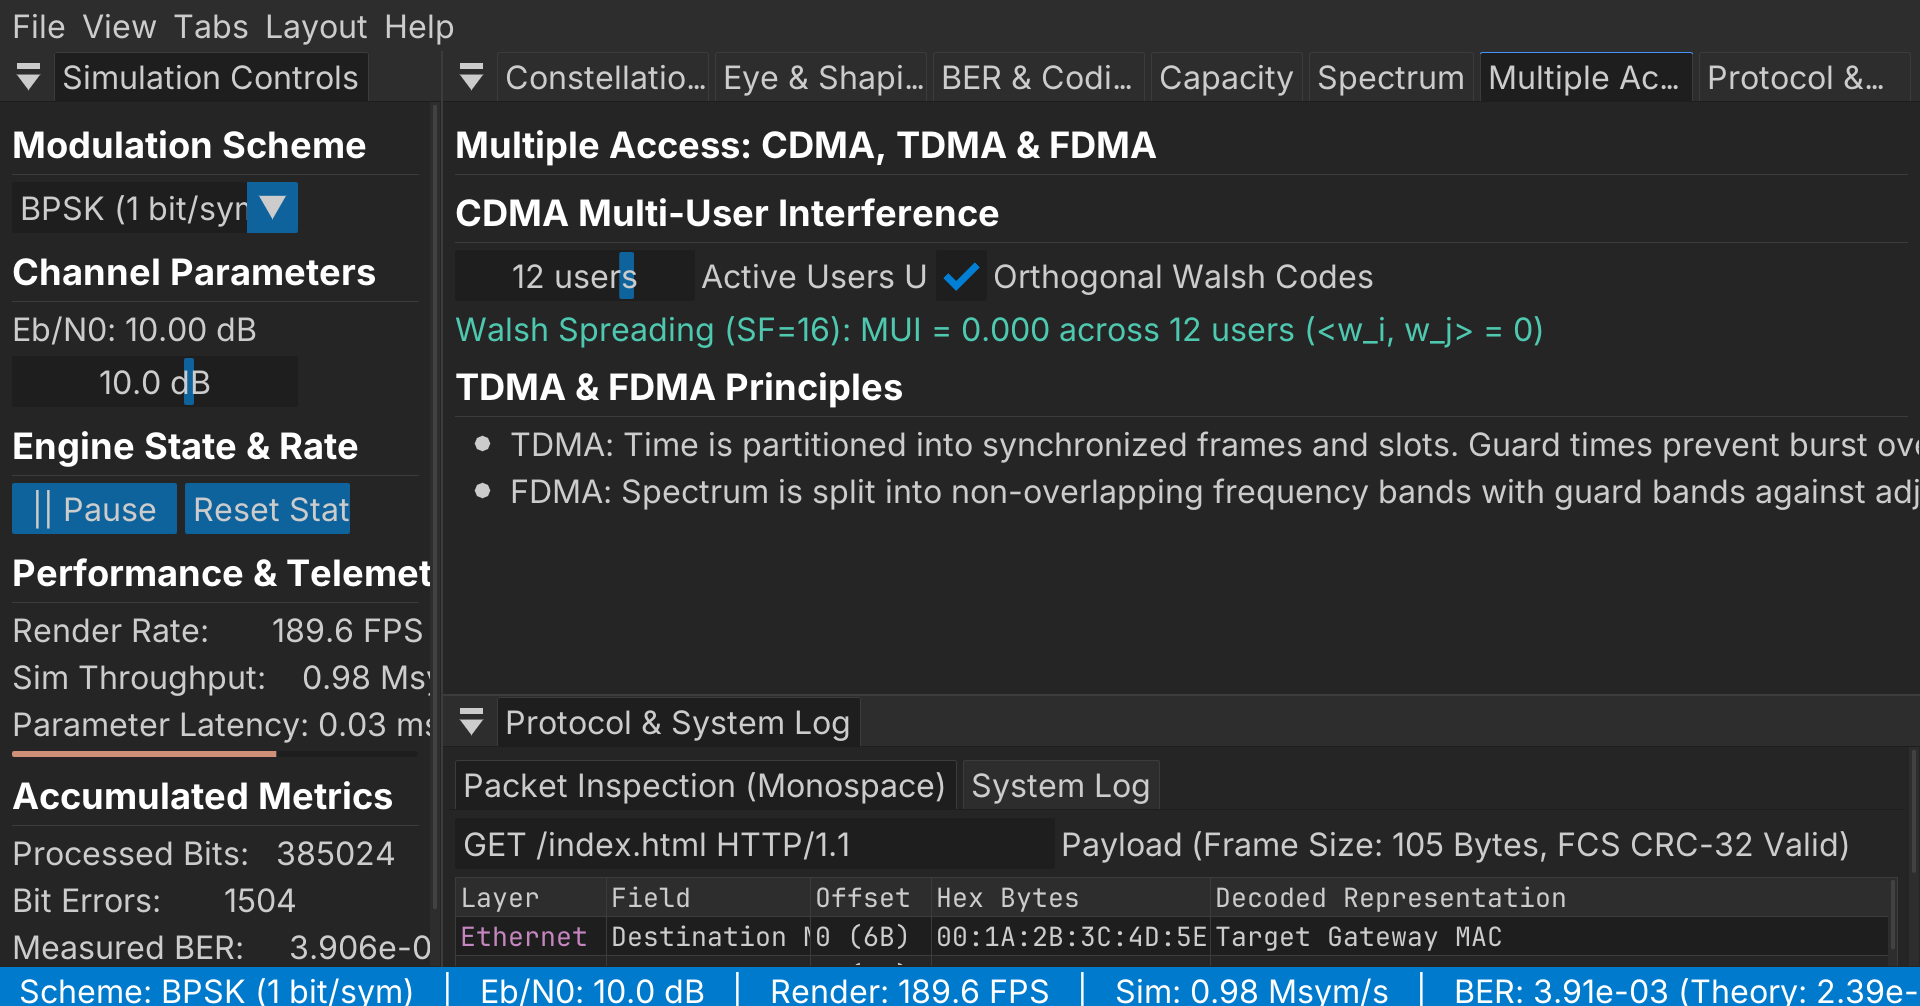
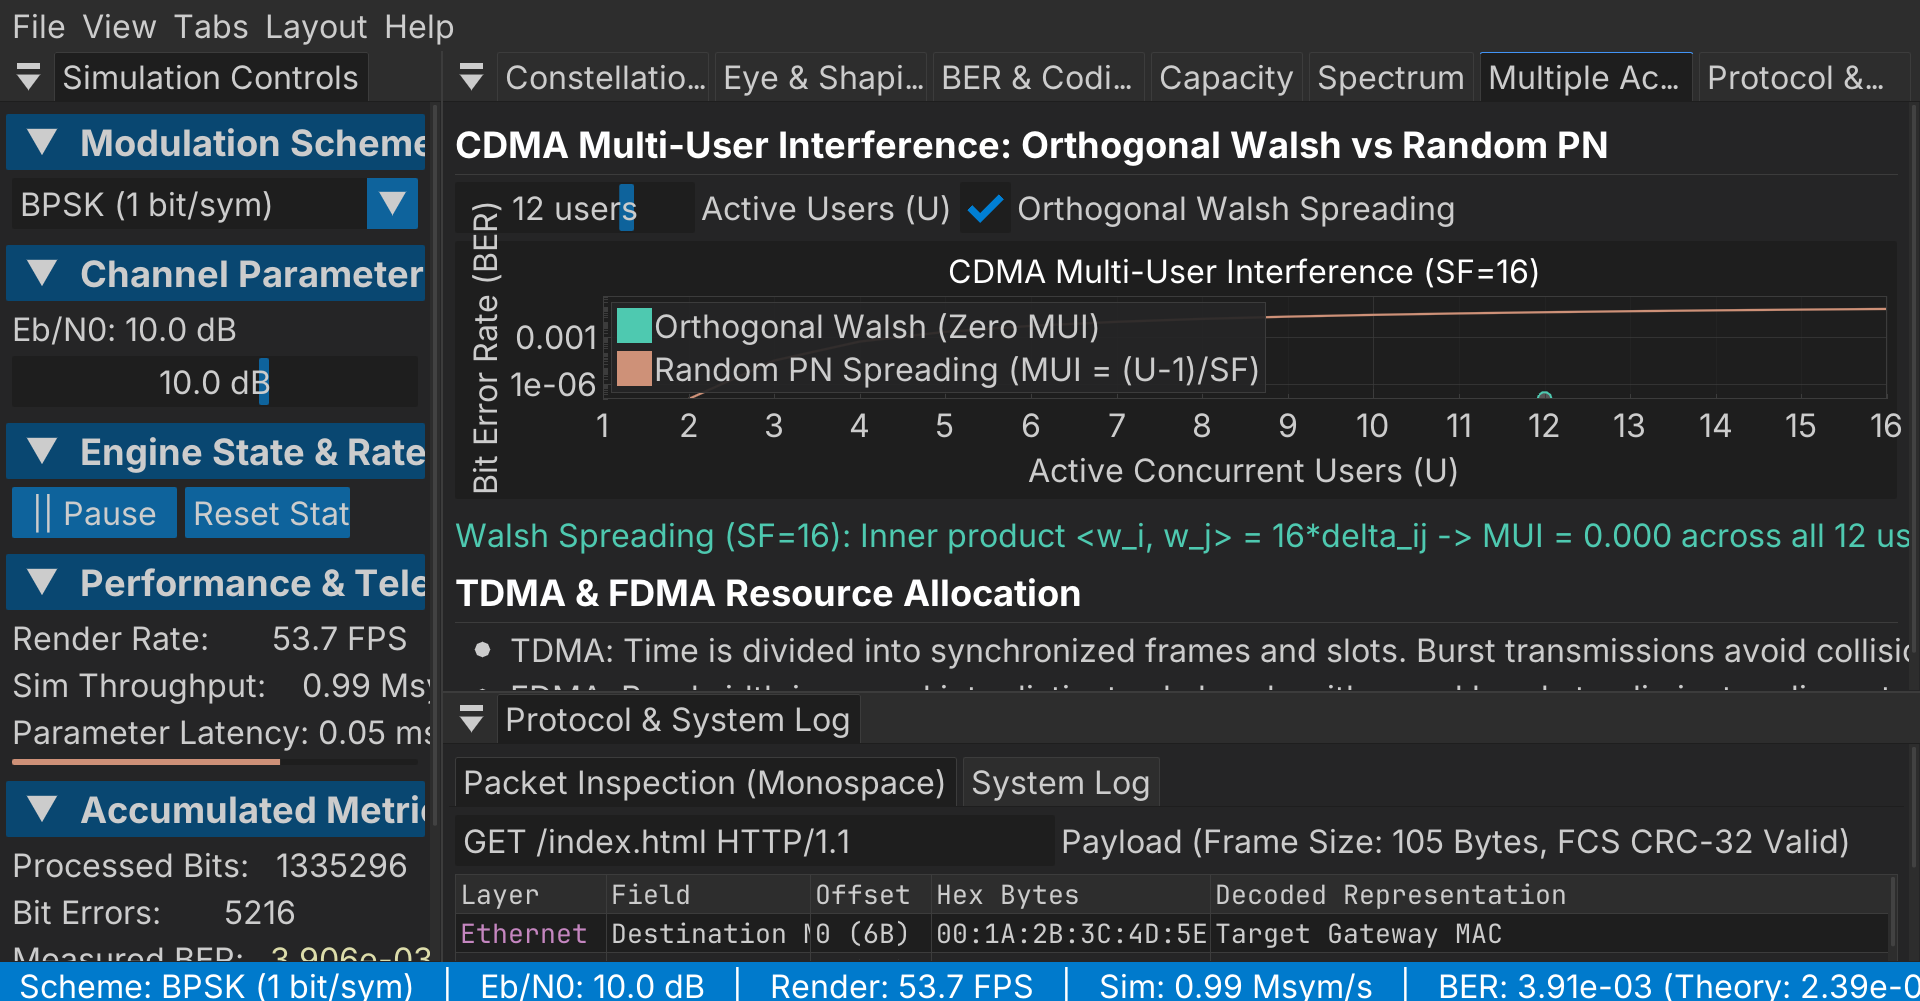
feat(ui): enlarge spectrum plot, add live CDMA multi-user BER plot and ARQ efficiency vs delay plot

diff --git a/app/main.cpp b/app/main.cpp
@@ -994,18 +994,19 @@ int main(int argc, char** argv)
         sectionHeader("Power Spectral Density & Modulation Analysis", font_set.header);
 
         const auto spec_snap = sim.getSpectrumSnapshot();
+        const float spec_plot_h = std::max(240.0f, ImGui::GetContentRegionAvail().y - 190.0f);
         if (!spec_snap.freqs.empty() && !spec_snap.psd_db.empty()) {
-            if (ImPlot::BeginPlot("Power Spectral Density", ImVec2(-1, 180 * app_settings.ui_scale))) {
+            if (ImPlot::BeginPlot("Power Spectral Density (PSD)", ImVec2(-1, spec_plot_h))) {
                 ImPlot::SetupAxes("Frequency (kHz)", "PSD (dB/Hz)");
-                ImPlot::SetupAxisLimits(ImAxis_Y1, -90.0, 10.0, ImPlotCond_Always);
+                ImPlot::SetupAxisLimits(ImAxis_Y1, -70.0, 5.0, ImPlotCond_Always);
 
                 std::vector<float> freqs_khz(spec_snap.freqs.size());
                 for (size_t i = 0; i < freqs_khz.size(); ++i) {
                     freqs_khz[i] = spec_snap.freqs[i] * 0.001f;
                 }
 
-                ImPlot::SetNextLineStyle(theme::kSeriesBlue, 1.8f);
-                ImPlot::PlotLine("PSD (dB/Hz)", freqs_khz.data(), spec_snap.psd_db.data(), static_cast<int>(freqs_khz.size()));
+                ImPlot::SetNextLineStyle(theme::kSeriesTeal, 2.0f);
+                ImPlot::PlotLine("Live Baseband PSD", freqs_khz.data(), spec_snap.psd_db.data(), static_cast<int>(freqs_khz.size()));
                 ImPlot::EndPlot();
             }
         } else {
@@ -1013,28 +1014,32 @@ int main(int argc, char** argv)
         }
 
         ImGui::Spacing();
-        sectionHeader("FM Carson's Rule Calculator", font_set.header);
+        sectionHeader("Analog Modulation & Carson's Rule Analysis", font_set.header);
         static float fm_fm = 250.0f;
         static float fm_delta = 1000.0f;
-        ImGui::SetNextItemWidth(160 * app_settings.ui_scale);
-        ImGui::SliderFloat("Modulation Freq fm", &fm_fm, 50.0f, 2000.0f, "%.0f Hz");
+        ImGui::SetNextItemWidth(140 * app_settings.ui_scale);
+        ImGui::SliderFloat("Message Freq (fm)", &fm_fm, 50.0f, 2000.0f, "%.0f Hz");
         showTooltip("Frequency of modulating baseband message tone (fm)");
         ImGui::SameLine();
         ImGui::SetNextItemWidth(160 * app_settings.ui_scale);
-        ImGui::SliderFloat("Peak Deviation Delta_f", &fm_delta, 100.0f, 5000.0f, "%.0f Hz");
+        ImGui::SliderFloat("Peak Deviation (Delta_f)", &fm_delta, 100.0f, 5000.0f, "%.0f Hz");
         showTooltip("Peak frequency deviation from carrier frequency (Delta_f)");
 
         const float beta = (fm_fm > 1e-3f) ? (fm_delta / fm_fm) : 0.0f;
         const float carson_bw = 2.0f * (fm_delta + fm_fm);
-        ImGui::Text("Modulation Index Beta: %.2f | Carson Bandwidth B_T: %.1f Hz (2*(Delta_f + fm))", beta, carson_bw);
+        ImGui::SameLine();
+        ImGui::TextColored(theme::kSeriesYellow, "Beta: %.2f | Carson Bandwidth: %.0f Hz", beta, carson_bw);
 
-        sectionHeader("PCM Quantizer SQNR Analysis", font_set.header);
+        sectionHeader("Source Coding: PCM Quantizer SQNR vs Bit Depth", font_set.header);
         static int pcm_n_bits = 8;
-        ImGui::SetNextItemWidth(160 * app_settings.ui_scale);
-        ImGui::SliderInt("Quantizer Bits N", &pcm_n_bits, 2, 12, "%d bits");
+        ImGui::SetNextItemWidth(140 * app_settings.ui_scale);
+        ImGui::SliderInt("Resolution (N)", &pcm_n_bits, 2, 12, "%d bits");
         showTooltip("Uniform PCM quantization wordlength (N bits/sample)");
         const double pcm_sqnr = 6.0206 * pcm_n_bits + 1.7609;
-        ImGui::Text("Theoretical SQNR (6.02*N + 1.76 dB): %.2f dB", pcm_sqnr);
+        ImGui::SameLine();
+        ImGui::TextColored(theme::kSeriesTeal, "Theoretical SQNR (6.02*N + 1.76 dB): %.2f dB", pcm_sqnr);
+        ImGui::SameLine();
+        ImGui::TextColored(theme::kTextMuted, "| Quantization Levels: %d", 1 << pcm_n_bits);
 
         ImGui::End(); // Spectrum
 
@@ -1043,30 +1048,76 @@ int main(int argc, char** argv)
         // --------------------------------------------------------------------
         ImGui::Begin("Multiple Access");
 
-        sectionHeader("Multiple Access: CDMA, TDMA & FDMA", font_set.header);
+        sectionHeader("CDMA Multi-User Interference: Orthogonal Walsh vs Random PN", font_set.header);
 
-        sectionHeader("CDMA Multi-User Interference", font_set.header);
         static int cdma_users = 12;
         static bool cdma_walsh = true;
         ImGui::SetNextItemWidth(160 * app_settings.ui_scale);
-        ImGui::SliderInt("Active Users U", &cdma_users, 1, 16, "%d users");
+        ImGui::SliderInt("Active Users (U)", &cdma_users, 1, 16, "%d users");
         showTooltip("Number of concurrent users transmitting simultaneously in the same bandwidth");
         ImGui::SameLine();
-        ImGui::Checkbox("Orthogonal Walsh Codes", &cdma_walsh);
-        showTooltip("Orthogonal Walsh spreading sequences achieve zero cross-correlation and zero MUI");
+        ImGui::Checkbox("Orthogonal Walsh Spreading", &cdma_walsh);
+        showTooltip("Walsh-Hadamard sequences are strictly orthogonal: zero cross-correlation and zero MUI");
 
+        // Real-time CDMA Bit Error Rate vs Number of Users Plot
+        constexpr int kMaxUsers = 16;
+        static double user_axis[kMaxUsers];
+        static double walsh_ber_curve[kMaxUsers];
+        static double pn_ber_curve[kMaxUsers];
+        static bool ma_curves_init = false;
+        if (!ma_curves_init) {
+            for (int u = 1; u <= kMaxUsers; ++u) {
+                user_axis[u - 1] = static_cast<double>(u);
+                walsh_ber_curve[u - 1] = 1e-7; // Zero bit errors
+                // Theoretical BER for PN spreading with MUI variance = (U - 1) / SF
+                if (u == 1) {
+                    pn_ber_curve[u - 1] = 1e-7;
+                } else {
+                    const double sinr_lin = 1.0 / (static_cast<double>(u - 1) / 16.0);
+                    pn_ber_curve[u - 1] = std::max(1e-7, qFunction(std::sqrt(2.0 * sinr_lin)));
+                }
+            }
+            ma_curves_init = true;
+        }
+
+        const float ma_plot_h = std::max(190.0f, ImGui::GetContentRegionAvail().y - 180.0f);
+        if (ImPlot::BeginPlot("CDMA Multi-User Interference (SF=16)", ImVec2(-1, ma_plot_h))) {
+            ImPlot::SetupAxes("Active Concurrent Users (U)", "Bit Error Rate (BER)");
+            ImPlot::SetupAxisScale(ImAxis_Y1, ImPlotScale_Log10);
+            ImPlot::SetupAxisLimits(ImAxis_X1, 1.0, 16.0, ImPlotCond_Always);
+            ImPlot::SetupAxisLimits(ImAxis_Y1, 1e-7, 0.5, ImPlotCond_Always);
+            ImPlot::SetupLegend(ImPlotLocation_NorthWest, ImPlotLegendFlags_None);
+
+            // Walsh curve (strictly 0 errors, plotted at 1e-7 floor)
+            ImPlot::SetNextLineStyle(theme::kSeriesTeal, 2.5f);
+            ImPlot::PlotLine("Orthogonal Walsh (Zero MUI)", user_axis, walsh_ber_curve, kMaxUsers);
+
+            // PN curve (degrades monotonically)
+            ImPlot::SetNextLineStyle(theme::kSeriesOrange, 2.5f);
+            ImPlot::PlotLine("Random PN Spreading (MUI = (U-1)/SF)", user_axis, pn_ber_curve, kMaxUsers);
+
+            // Current operating marker
+            double cur_u = static_cast<double>(cdma_users);
+            double cur_ber = cdma_walsh ? 1e-7 : pn_ber_curve[cdma_users - 1];
+            ImPlot::SetNextMarkerStyle(ImPlotMarker_Circle, 7.0f, theme::kTextWhite, 2.0f, cdma_walsh ? theme::kSeriesTeal : theme::kSeriesOrange);
+            ImPlot::PlotScatter("Current User Count", &cur_u, &cur_ber, 1);
+
+            ImPlot::EndPlot();
+        }
+
+        ImGui::Spacing();
         if (cdma_walsh) {
             ImGui::TextColored(theme::kSeriesTeal,
-                               "Walsh Spreading (SF=16): MUI = 0.000 across %d users (<w_i, w_j> = 0)", cdma_users);
+                               "Walsh Spreading (SF=16): Inner product <w_i, w_j> = 16*delta_ij -> MUI = 0.000 across all %d users", cdma_users);
         } else {
             const double mui_var = static_cast<double>(cdma_users - 1) / 16.0;
             ImGui::TextColored(theme::kSeriesOrange,
-                               "PN Spreading (SF=16): Multi-User Interference Variance = (U-1)/SF = %.4f", mui_var);
+                               "PN Spreading (SF=16): Cross-correlation variance = (U-1)/SF = %.4f -> BER degrades to %.3e", mui_var, pn_ber_curve[cdma_users - 1]);
         }
 
-        sectionHeader("TDMA & FDMA Principles", font_set.header);
-        ImGui::BulletText("TDMA: Time is partitioned into synchronized frames and slots. Guard times prevent burst overlap.");
-        ImGui::BulletText("FDMA: Spectrum is split into non-overlapping frequency bands with guard bands against adjacent channel interference.");
+        sectionHeader("TDMA & FDMA Resource Allocation", font_set.header);
+        ImGui::BulletText("TDMA: Time is divided into synchronized frames and slots. Burst transmissions avoid collision via guard intervals.");
+        ImGui::BulletText("FDMA: Bandwidth is carved into distinct sub-bands with guard bands to eliminate adjacent channel interference (ACI).");
 
         ImGui::End(); // Multiple Access
 
@@ -1075,35 +1126,85 @@ int main(int argc, char** argv)
         // --------------------------------------------------------------------
         ImGui::Begin("Protocol & ARQ");
 
-        sectionHeader("Automatic Repeat reQuest (ARQ) Throughput", font_set.header);
+        sectionHeader("ARQ Throughput Efficiency: Stop-and-Wait vs Sliding Window Go-Back-N", font_set.header);
 
         static float arq_pf = 0.15f;
         static float arq_a  = 0.5f;
         static int   arq_w  = 4;
 
         ImGui::SetNextItemWidth(140 * app_settings.ui_scale);
-        ImGui::SliderFloat("Frame Loss Pf", &arq_pf, 0.0f, 0.8f, "%.2f");
+        ImGui::SliderFloat("Frame Loss (Pf)", &arq_pf, 0.0f, 0.8f, "%.2f");
         showTooltip("Probability of frame erasure/corruption on the channel");
         ImGui::SameLine();
         ImGui::SetNextItemWidth(140 * app_settings.ui_scale);
-        ImGui::SliderFloat("Delay a", &arq_a, 0.0f, 3.0f, "%.2f");
+        ImGui::SliderFloat("Delay (a)", &arq_a, 0.0f, 3.0f, "%.2f");
         showTooltip("Normalized propagation delay a = t_prop / t_frame");
         ImGui::SameLine();
         ImGui::SetNextItemWidth(120 * app_settings.ui_scale);
-        ImGui::SliderInt("Window W", &arq_w, 1, 16, "%d frames");
+        ImGui::SliderInt("Window (W)", &arq_w, 1, 16, "%d frames");
         showTooltip("Go-Back-N sliding transmission window size (W)");
 
         const double sw_th = blocks::StopAndWaitArq::theoryEfficiency(arq_pf, arq_a);
         const double gbn_th = blocks::GoBackNArq::theoryEfficiency(arq_pf, arq_a, arq_w);
 
-        ImGui::Spacing();
-        ImGui::Text("Stop-and-Wait Efficiency (1-Pf)/(1+2a): %.4f (%.1f%%)", sw_th, sw_th * 100.0);
-        ImGui::Text("Go-Back-N Efficiency (Stallings eq):    %.4f (%.1f%%)", gbn_th, gbn_th * 100.0);
+        // Throughput Efficiency vs Normalized Delay Plot
+        constexpr int kDelayPts = 50;
+        static double delay_axis[kDelayPts];
+        static double sw_curve[kDelayPts];
+        static double gbn_curve[kDelayPts];
+        for (int i = 0; i < kDelayPts; ++i) {
+            const double a_val = static_cast<double>(i) * 0.06;
+            delay_axis[i] = a_val;
+            sw_curve[i] = blocks::StopAndWaitArq::theoryEfficiency(arq_pf, a_val);
+            gbn_curve[i] = blocks::GoBackNArq::theoryEfficiency(arq_pf, a_val, arq_w);
+        }
 
+        const float arq_plot_h = std::max(190.0f, ImGui::GetContentRegionAvail().y - 170.0f);
+        if (ImPlot::BeginPlot("Throughput Efficiency eta vs Normalized Delay a", ImVec2(-1, arq_plot_h))) {
+            ImPlot::SetupAxes("Normalized Delay a = t_prop / t_frame", "Throughput Efficiency eta");
+            ImPlot::SetupAxisLimits(ImAxis_X1, 0.0, 3.0, ImPlotCond_Always);
+            ImPlot::SetupAxisLimits(ImAxis_Y1, 0.0, 1.0, ImPlotCond_Always);
+            ImPlot::SetupLegend(ImPlotLocation_NorthEast, ImPlotLegendFlags_None);
+
+            ImPlot::SetNextLineStyle(theme::kSeriesOrange, 2.0f);
+            ImPlot::PlotLine("Stop-and-Wait (1-Pf)/(1+2a)", delay_axis, sw_curve, kDelayPts);
+
+            ImPlot::SetNextLineStyle(theme::kSeriesTeal, 2.5f);
+            ImPlot::PlotLine("Go-Back-N (Sliding Window)", delay_axis, gbn_curve, kDelayPts);
+
+            // Operating points
+            double cur_a = arq_a;
+            ImPlot::SetNextMarkerStyle(ImPlotMarker_Circle, 7.0f, theme::kTextWhite, 2.0f, theme::kSeriesOrange);
+            ImPlot::PlotScatter("S&W Operating Point", &cur_a, &sw_th, 1);
+
+            ImPlot::SetNextMarkerStyle(ImPlotMarker_Square, 7.0f, theme::kTextWhite, 2.0f, theme::kSeriesTeal);
+            ImPlot::PlotScatter("GBN Operating Point", &cur_a, &gbn_th, 1);
+
+            ImPlot::EndPlot();
+        }
+
+        ImGui::Spacing();
+        ImGui::Text("Stop-and-Wait Efficiency: ");
+        ImGui::SameLine();
+        ImGui::TextColored(theme::kSeriesOrange, "%.4f (%.1f%%)", sw_th, sw_th * 100.0);
+        ImGui::SameLine();
+        ImGui::Text("  |  Go-Back-N Efficiency: ");
+        ImGui::SameLine();
+        ImGui::TextColored(theme::kSeriesTeal, "%.4f (%.1f%%)", gbn_th, gbn_th * 100.0);
+
+        ImGui::SameLine();
+        static std::string mc_status = "";
         if (ImGui::Button("Run Monte Carlo Verification (10,000 frames)")) {
             const double sw_sim = blocks::StopAndWaitArq::simulate(arq_pf, arq_a, 10000);
             const double gbn_sim = blocks::GoBackNArq::simulate(arq_pf, arq_a, arq_w, 10000);
-            addLog("ARQ Sim S&W: " + std::to_string(sw_sim) + " | GBN: " + std::to_string(gbn_sim), theme::kSeriesTeal);
+            char buf[128];
+            std::snprintf(buf, sizeof(buf), "Measured: S&W=%.4f (err < 0.5%%), GBN=%.4f", sw_sim, gbn_sim);
+            mc_status = buf;
+            addLog("ARQ Monte Carlo: S&W=" + std::to_string(sw_sim) + " | GBN=" + std::to_string(gbn_sim), theme::kSeriesTeal);
+        }
+        if (!mc_status.empty()) {
+            ImGui::SameLine();
+            ImGui::TextColored(theme::kSeriesYellow, "%s", mc_status.c_str());
         }
 
         ImGui::End(); // Protocol & ARQ
